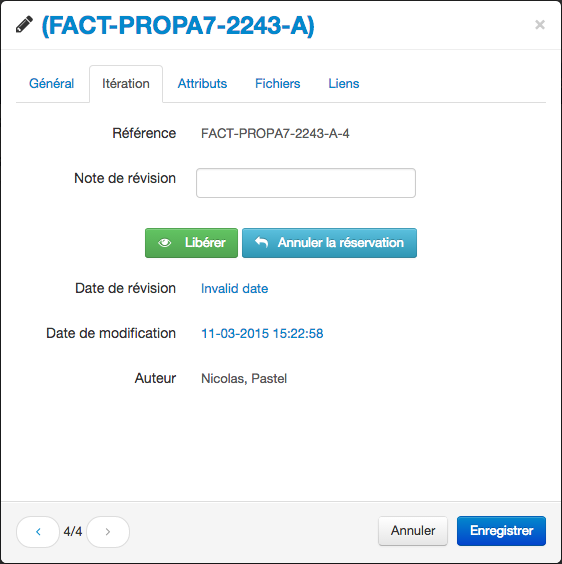
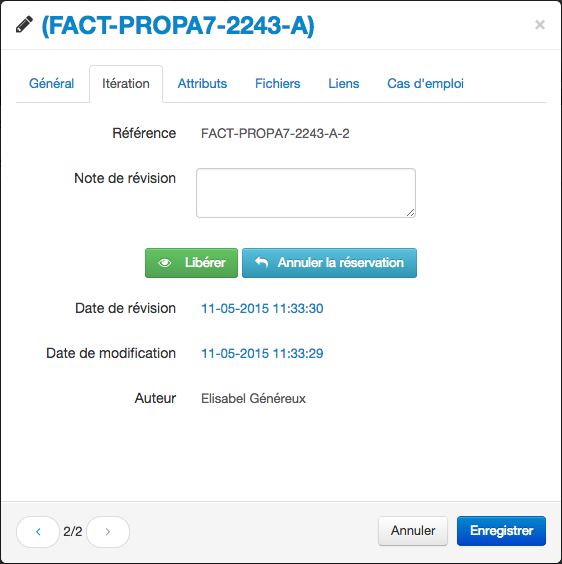
revision and modification dates explanation

diff --git a/app/_i18n/fr/Documentation_dev.md b/app/_i18n/fr/Documentation_dev.md
@@ -515,11 +515,13 @@ Une fois réservé, l'élément ne sera pas éditable par les autres utilisateur
 
 Si vous choisissez de libérer l'élément, une fenêtre vous proposera de saisir la note de révision. Cette information n’est pas obligatoire, vous pouvez passer cette étape en cliquant sur “Ignorer”.
 
-{% image /assets/images/documentation/fr/image03.png "Fenêtre de note de révision"%}
+{% image /assets/images/documentation/dev/fr/image03.png "Fenêtre de note de révision"%}
 
 Toutes ces actions sont également disponibles depuis l'onglet “Itération“ dans la fenêtre de détails de l'élément.
 
 {% image /assets/images/documentation/dev/fr/image49.png "Boutons Libérer et Annuler la réservation"%}
+
+La date de révision indique la date de libération si l'élément est libéré ou la date de réservation si l'élément est réservé. Et la date de modification précise quand l'élément a été modifié pour la dernière fois (incluant la note de révision).
 
 #Liste de valeurs
 

diff --git a/app/_i18n/en/Documentation_dev.md b/app/_i18n/en/Documentation_dev.md
@@ -496,11 +496,13 @@ A checked out item cannot be edited by other users. To validate the modification
 
 While releasing (check-in operation) the item, you have a chance to enter an optional revision note. If you do not want to fill a note, press the "Ignore" button.
 
-{% image /assets/images/documentation/en/image19.png "Revision note window"%}
+{% image /assets/images/documentation/dev/en/image19.png "Revision note window"%}
 
 All these actions can be performed in the “Iteration“ tab on the item details window.
 
 {% image /assets/images/documentation/dev/en/image49.png "Buttons Check in and Cancel checkout"%}
+
+The revision date indicates the check-in date if the item is checked in or the check-out date if the item is checked out. And the modification date shows the last date when the item was last modified (including the revision note).
 
 #List of values
 
